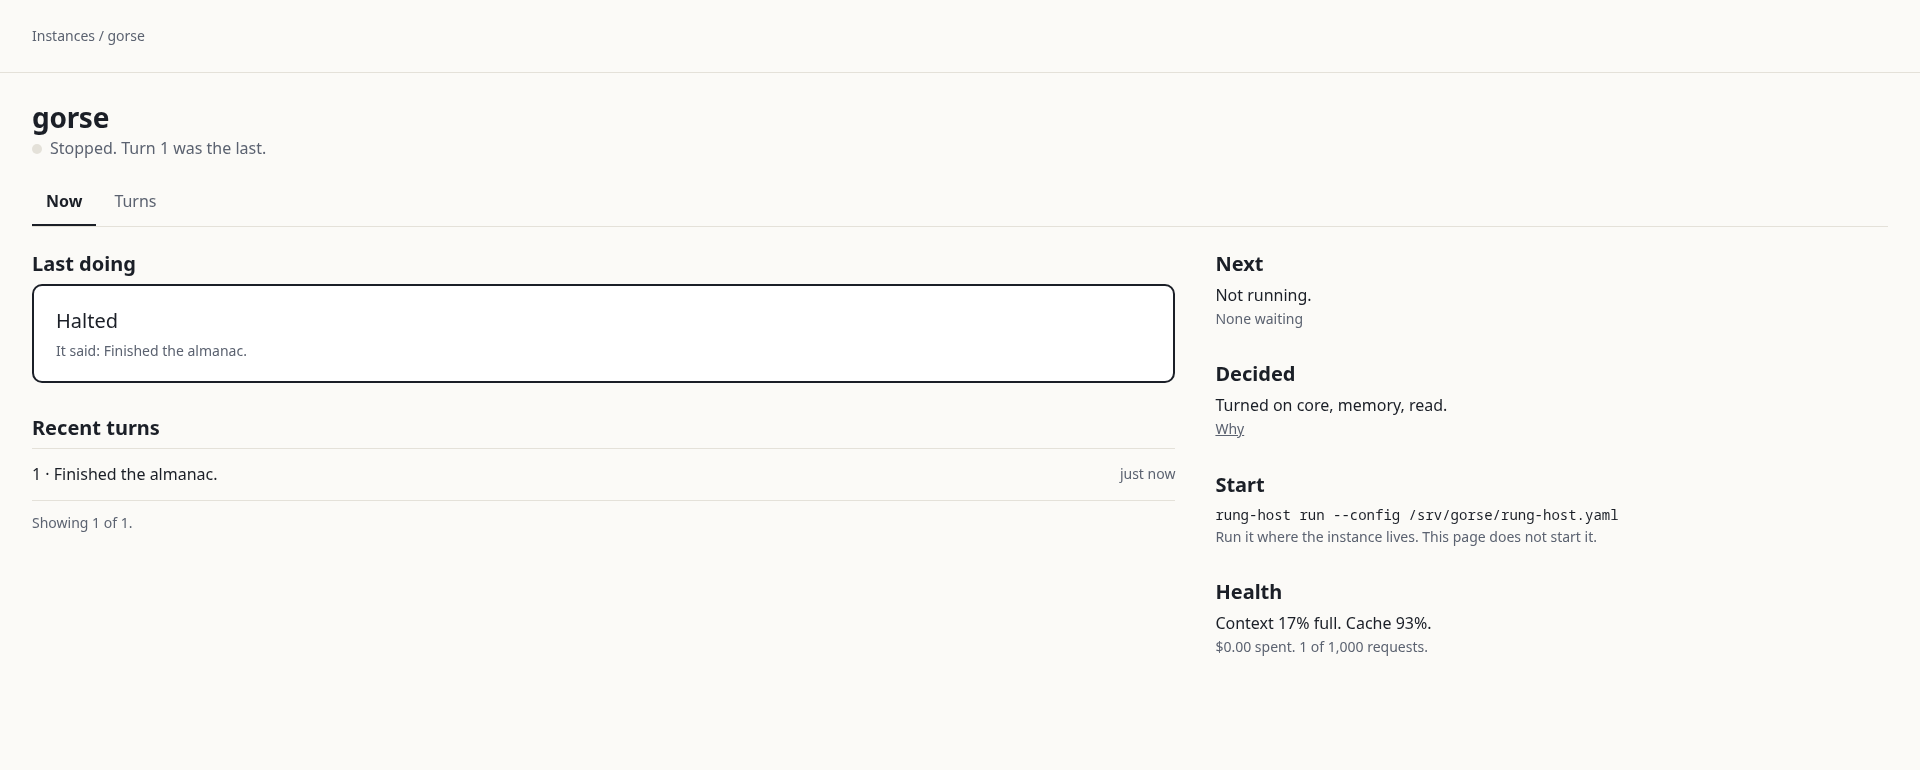
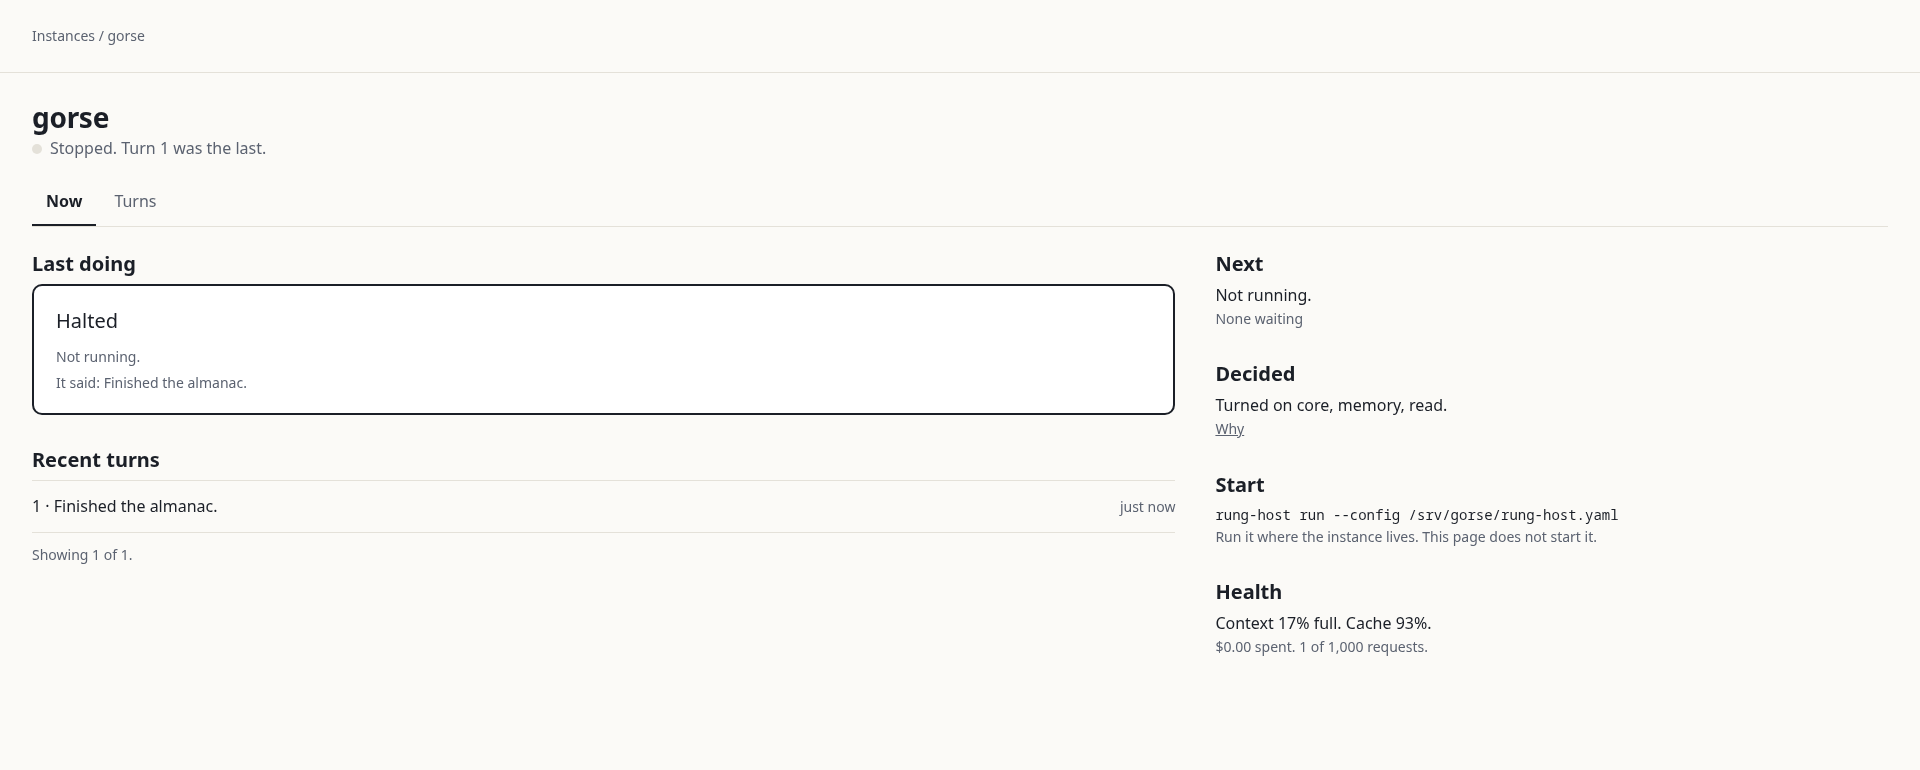
fix(ui): one status mapping for both pages
The Now page had no branch for an ended stream (the Turns page said Not running), so
with a stale record it could say the instance was working while Turns said it was not.
Every state the stream can be in now maps, in one exhaustive table, to its words for
each page and to whether it means the instance is running; a status added to the list
does not compile until it has an entry. When the stream's last frame says the host
stopped, that is the newer word: the heading, the state word and the Now page's line
follow it even if the summary read before it still says Working. Tests (red against the
code before), a proof step with a stale summary, and three more faults in the sweep.

diff --git a/ui/test/status.test.ts b/ui/test/status.test.ts
@@ -1,0 +1,68 @@
+// One mapping from what the stream (and the summary) can say to the words and the meaning every page uses, so two pages cannot disagree.
+import { test } from "node:test";
+import assert from "node:assert/strict";
+import { STATUSES } from "../src/live/client.ts";
+import { describeStatus, stoppedByStream, TURNS_LINE, withStreamEnd } from "../src/live/status.ts";
+import { summarize } from "../src/record/folds.ts";
+import { synthetic } from "../src/synthetic.ts";
+
+test("every status the stream can produce has words and a meaning: a new one is a compile error, and here a test failure", () => {
+  assert.deepEqual([...STATUSES].sort(), ["catching up", "connecting", "ended", "following", "reconnecting", "unavailable"]);
+  for (const s of STATUSES) {
+    const d = describeStatus(s);
+    assert.ok(d.turnsLine.length > 3, `${s}: words for the Turns page`);
+    assert.ok(d.nowWords.length > 3, `${s}: words for the Now page`);
+    assert.ok(["yes", "no", "unknown"].includes(d.running), `${s}: whether it is running`);
+  }
+  assert.equal(Object.keys(TURNS_LINE).length, STATUSES.length);
+});
+
+test("an ended stream says Not running on both pages, and means not running, whatever a stale record says", () => {
+  const d = describeStatus("ended");
+  assert.equal(d.turnsLine, "Not running");
+  assert.equal(d.nowWords, "Not running.");
+  assert.equal(d.running, "no");
+  // A stale record: its last turn is still 'running'. The stream's word for the instance wins.
+  assert.equal(describeStatus("ended", { turnRunning: true }).nowWords, "Not running.");
+});
+
+test("while following, the Now page says what the running turn is doing, and between turns says so; the Turns page says Following", () => {
+  assert.equal(describeStatus("following").turnsLine, "Following");
+  assert.equal(describeStatus("following", { turnRunning: true, tool: "ws_write", elapsed: "12 s" }).nowWords, "Running ws_write, 12 s in.");
+  assert.equal(describeStatus("following", { turnRunning: true, elapsed: "3 s" }).nowWords, "Writing, 3 s in.");
+  assert.equal(describeStatus("following", { turnRunning: false }).nowWords, "Between turns.");
+  assert.equal(describeStatus("following").running, "yes");
+});
+
+test("unavailable, reconnecting, catching up: each its own plain words", () => {
+  assert.equal(describeStatus("unavailable").turnsLine, "Recorded, not followed");
+  assert.equal(describeStatus("unavailable").nowWords, "Not followed.");
+  assert.equal(describeStatus("reconnecting").turnsLine, "Reconnecting");
+  assert.equal(describeStatus("connecting").nowWords, "Reconnecting.");
+  assert.equal(describeStatus("catching up").turnsLine, "Catching up");
+  assert.equal(describeStatus("catching up").running, "yes");
+});
+
+const stale = () => summarize(synthetic(Date.now()).find((i) => i.id === "atlas")!.lines, { lockHeld: true, now: Date.now() }); // says Working
+
+test("a stale summary that still says Working is replaced by the stream's word once the host stopped, on every page that reads it", () => {
+  assert.equal(stale().state, "Working");
+  const stopped = withStreamEnd(stale(), { reason: "stopped", last_seq: 9, problem: null });
+  assert.equal(stopped.state, "Stopped");
+  assert.equal(stopped.doing, "Not running.");
+  assert.equal(stopped.needsYou, false);
+  const down = withStreamEnd(stale(), { reason: "down", last_seq: 9, problem: null });
+  assert.equal(down.state, "Down");
+  assert.equal(down.needsYou, true, "a host that died needs the owner");
+  assert.equal(stoppedByStream({ reason: "stopped", last_seq: 1, problem: null }), true);
+  assert.equal(stoppedByStream({ reason: "damaged", last_seq: 1, problem: "x" }), false, "a damaged record is not a stopped host");
+  assert.equal(stoppedByStream(null), false);
+});
+
+test("a summary that already says the host is not running is left as it is, and no end leaves a running one alone", () => {
+  const s = { ...stale(), state: "Stopped" as const, doing: "Reached its run limit." };
+  assert.equal(withStreamEnd(s, { reason: "down", last_seq: 1, problem: null }), s);
+  const w = stale();
+  assert.equal(withStreamEnd(w, null), w);
+  assert.equal(withStreamEnd(w, { reason: "error", last_seq: 1, problem: "read failed" }), w);
+});

diff --git a/ui/src/live/status.ts b/ui/src/live/status.ts
@@ -1,0 +1,50 @@
+/** The one mapping from what the stream can be doing to the words every page uses for it and what it means. `Record<Status, …>` makes it
+ *  exhaustive: a status added to `STATUSES` does not compile until it has an entry here, so two pages cannot read the same status two ways. */
+import { STATUSES, type End, type Status } from "./client.ts";
+import type { Summary } from "../record/folds.ts";
+import { isLockHeld } from "../record/words.ts";
+
+/** Does this status mean the instance is running? `unknown` when the stream cannot say (it is not connected, or there is no stream). */
+export type Running = "yes" | "no" | "unknown";
+
+/** What the page is told about the running turn, for the words of the Now page. */
+export interface TurnContext {
+  /** The record's last turn has started and not ended. */
+  turnRunning?: boolean;
+  /** The tool in flight, if the stream said one. */
+  tool?: string | null;
+  /** How long the turn has run, in words. */
+  elapsed?: string;
+}
+
+const ROW: Record<Status, { turnsLine: string; now: (c: TurnContext) => string; running: Running }> = {
+  connecting: { turnsLine: "Reconnecting", now: () => "Reconnecting.", running: "unknown" },
+  reconnecting: { turnsLine: "Reconnecting", now: () => "Reconnecting.", running: "unknown" },
+  "catching up": { turnsLine: "Catching up", now: () => "Catching up.", running: "yes" },
+  following: {
+    turnsLine: "Following",
+    now: (c) => (c.turnRunning ? `${c.tool ? `Running ${c.tool}` : "Writing"}, ${c.elapsed ?? "0 s"} in.` : "Between turns."),
+    running: "yes",
+  },
+  // The host stopped, whatever the record's last turn says: a stale record may still hold a turn that never ended.
+  ended: { turnsLine: "Not running", now: () => "Not running.", running: "no" },
+  unavailable: { turnsLine: "Recorded, not followed", now: () => "Not followed.", running: "unknown" },
+};
+
+export const TURNS_LINE = Object.fromEntries(STATUSES.map((s) => [s, ROW[s].turnsLine])) as Record<Status, string>;
+
+export function describeStatus(status: Status, ctx: TurnContext = {}): { turnsLine: string; nowWords: string; running: Running } {
+  const r = ROW[status];
+  return { turnsLine: r.turnsLine, nowWords: r.now(ctx), running: r.running };
+}
+
+/** The stream's last frame says the host stopped (or died): the instance is not running, whatever a summary read before it said. */
+export const stoppedByStream = (ended: End | null): boolean => ended !== null && (ended.reason === "stopped" || ended.reason === "down");
+
+/** The summary as the pages show it once the stream has ended: a summary that still holds a lock-held word is stale, and the stream's
+ *  word replaces it. A summary that already says Stopped, Down or Unreadable is left as it is. */
+export function withStreamEnd(summary: Summary, ended: End | null): Summary {
+  if (!stoppedByStream(ended) || !isLockHeld(summary.state)) return summary;
+  const stopped = ended!.reason === "stopped";
+  return { ...summary, state: stopped ? "Stopped" : "Down", doing: "Not running.", needsYou: !stopped };
+}

diff --git a/ui/src/live/store.ts b/ui/src/live/store.ts
@@ -3,7 +3,7 @@
  *  with useSyncExternalStore and a test reads it directly. Changes are batched so a burst of lines is one render. */
 import type { Line } from "../record/types.ts";
 import { parseRecordLines, redact, redactStreaming } from "./wire.ts";
-import { EventsClient, type Delta, type Open, type Status } from "./client.ts";
+import { EventsClient, type Delta, type End, type Open, type Status } from "./client.ts";
 
 /** What `GET /v1/summary` answers (ui/contract/README.md). */
 export interface HostSummary {
@@ -27,6 +27,8 @@ export interface LiveState {
   status: Status;
   lines: Line[];
   host: HostSummary | null;
+  /** The stream ended because the host stopped (the last frame it sent), until a stream opens on a host that is running again. */
+  ended: End | null;
 }
 
 /** What the running turn is doing now. Gone when the turn's end is on the record, and on a cut (pieces were lost). */
@@ -37,7 +39,7 @@ export interface LiveDelta {
 }
 
 export class LiveStore {
-  private state: LiveState = { loaded: false, error: null, status: "connecting", lines: [], host: null };
+  private state: LiveState = { loaded: false, error: null, status: "connecting", lines: [], host: null, ended: null };
   /** The streamed text exactly as it came. It is redacted when read, over the whole text so far: a key split across pieces
    *  is whole in here, and redacting the running text would leave the tail of a key the next piece completes. */
   private raw: LiveDelta | null = null;
@@ -129,9 +131,9 @@ export class LiveStore {
       onRecord: (l) => this.onRecord(l),
       onDelta: (d) => this.onDelta(d),
       onOpen: (o) => void this.onOpen(o),
-      onEnd: () => void this.refreshSummary(),
+      onEnd: (e) => { this.set({ ended: e }); void this.refreshSummary(); },
       onStatus: (s) => {
-        if (s === "reconnecting" || s === "connecting") { this.caught = false; this.setDelta(null); } // pieces may have been lost in the cut: show none rather than a torn text
+        if (s === "reconnecting" || s === "connecting") { this.caught = false; this.setDelta(null); this.set({ ended: null }); } // pieces may have been lost in the cut: show none rather than a torn text
         // "following" is the store's to say: it is true once the replay has been applied (checkCaught).
         this.set({ status: s });
       },
@@ -159,6 +161,7 @@ export class LiveStore {
     this.joinSeq = null;
     this.newBlock = false;
     this.setDelta(null);
+    if (o.live) this.set({ ended: null });
     if (!o.live) return; // a stopped host: its stream ends right after the replay
     // Without the summary the page cannot say where the replay ends, so it would show no partial frame at all: ask again, with a growing
     // wait, for as long as this stream is the open one. The record is followed meanwhile.

diff --git a/ui/src/pages/NowPage.tsx b/ui/src/pages/NowPage.tsx
@@ -7,12 +7,13 @@ import { InstanceHead, Page, Tabs, Top } from "./Shell.tsx";
 import { useNow, when } from "./format.ts";
 import type { LiveInfo } from "../data/hooks.ts";
 import { visibleDelta } from "../live/overlay.ts";
+import { describeStatus } from "../live/status.ts";
 import { duration } from "../record/words.ts";
 
 export function NowPage({ id }: { id: string }) {
   const { entry, folds, indexLoaded, error, live: li, startCommand } = useInstance(id);
   const s = folds?.summary;
-  const live = !!entry?.lockHeld;
+  const live = folds ? folds.lockHeld : !!entry?.lockHeld;
   const recent = folds ? folds.turns.slice(-3).reverse() : [];
   const lastTurn = folds && folds.turns.length ? folds.turns[folds.turns.length - 1] : null;
   const missing = indexLoaded && !entry;
@@ -36,7 +37,7 @@ export function NowPage({ id }: { id: string }) {
                         Committed {num(Math.max(0, (s.lastTurn ?? 0) - s.project.sinceTurn))} turns ago.{s.project.doneWhen ? ` Done when ${s.project.doneWhen}.` : ""}
                       </p>
                     )}
-                    {li && live && <LiveLine li={li} turn={lastTurn} now={now} />}
+                    {li && (live || li.status === "ended") && <LiveLine li={li} turn={lastTurn} now={now} />}
                     {!s.project && lastTurn && !live && (
                       <p className="meta" style={{ margin: "6px 0 0" }} data-content>It said: {turnLine(lastTurn)}</p>
                     )}
@@ -89,16 +90,11 @@ export function NowPage({ id }: { id: string }) {
 function LiveLine({ li, turn, now }: { li: LiveInfo; turn: { n: number; status: string; startedAt: number } | null; now: number }) {
   const running = turn?.status === "running";
   const delta = visibleDelta(li.delta, turn);
-  let words: string;
-  if (li.status === "unavailable") words = "Not followed.";
-  else if (li.status === "reconnecting" || li.status === "connecting") words = "Reconnecting.";
-  else if (li.status === "catching up") words = "Catching up.";
-  else if (running) words = `${delta?.tool ? `Running ${delta.tool}` : "Writing"}, ${duration(Math.max(0, now - turn!.startedAt))} in.`;
-  else words = "Between turns.";
+  const d = describeStatus(li.status, { turnRunning: running, tool: delta?.tool, elapsed: running ? duration(Math.max(0, now - turn!.startedAt)) : undefined });
   return (
     <>
       {delta?.text ? <p className="content" style={{ margin: "12px 0 0" }} data-content>{delta.text}</p> : null}
-      <p className="meta" style={{ margin: "12px 0 0" }} data-content><span className="mark live" />Live: {words}</p>
+      <p className="meta" style={{ margin: "12px 0 0" }} data-content>{d.running === "no" ? d.nowWords : <><span className="mark live" />Live: {d.nowWords}</>}</p>
     </>
   );
 }

diff --git a/ui/src/data/hooks.ts b/ui/src/data/hooks.ts
@@ -5,6 +5,7 @@ import { foldDecisions, foldPack, foldSpend, foldTurns, summarize } from "../rec
 import { LiveStore, type LiveDelta, type LiveState } from "../live/store.ts";
 import type { Status } from "../live/client.ts";
 import { isLockHeld } from "../record/words.ts";
+import { stoppedByStream, withStreamEnd } from "../live/status.ts";
 import { StoreRegistry } from "../live/registry.ts";
 
 /** Is the app beside a gateway (live) or beside recorded files (static)? Asked once. */
@@ -25,7 +26,7 @@ export function useIndex() {
 const registry = new StoreRegistry((id) => new LiveStore(`api/i/${encodeURIComponent(id)}`));
 const acquire = (id: string) => registry.acquire(id);
 const release = (id: string) => registry.release(id);
-const idle: LiveState = { loaded: false, error: null, status: "connecting", lines: [], host: null };
+const idle: LiveState = { loaded: false, error: null, status: "connecting", lines: [], host: null, ended: null };
 const never = () => () => {};
 
 export interface LiveInfo { status: Status; delta: LiveDelta | null }
@@ -54,12 +55,15 @@ export function useInstance(id: string) {
   const folds = useMemo(() => {
     if (!lines || !entry) return null;
     const now = live ? Date.now() : index.data!.generatedAt;
-    const lockHeld = live ? (ls.host ? isLockHeld(ls.host.state) : entry.lockHeld) : entry.lockHeld;
+    // The stream's last frame says the host stopped: that is the newer word, and a summary read before it may still say Working.
+    const ended = live ? ls.ended : null;
+    const lockHeld = stoppedByStream(ended) ? false : live ? (ls.host ? isLockHeld(ls.host.state) : entry.lockHeld) : entry.lockHeld;
     const folded = summarize(lines, { lockHeld, now });
     // The host knows whether it holds its lock; its word for the state is the one shown.
-    const summary = live && ls.host ? { ...folded, state: ls.host.state as typeof folded.state, doing: ls.host.doing, needsYou: ls.host.needs_you } : folded;
+    const fromHost = live && ls.host ? { ...folded, state: ls.host.state as typeof folded.state, doing: ls.host.doing, needsYou: ls.host.needs_you } : folded;
+    const summary = withStreamEnd(fromHost, ended);
     return { lines, turns: foldTurns(lines, { live: lockHeld }), decisions: foldDecisions(lines), pack: foldPack(lines), spend: foldSpend(lines), summary, now, lockHeld };
-  }, [lines, entry, index.data, live, ls.host]);
+  }, [lines, entry, index.data, live, ls.host, ls.ended]);
 
   const liveInfo: LiveInfo | null = live ? { status: ls.status, delta } : null;
   return { entry, startCommand: (ls.host?.start_command ?? entry?.startCommand) || null, folds, indexLoaded: index.isSuccess, error: index.error ?? rec.error ?? (live && ls.error ? new Error(ls.error) : null), live: liveInfo };

diff --git a/ui/census/live-proof.ts b/ui/census/live-proof.ts
@@ -114,6 +114,31 @@ try {
   }
 
 
+
+  // 4 ---------------------------------------------------------------------------------------------------------------
+  // The host stops while two pages watch it, and the summary they would refresh from is stale (it still says Working): both pages must
+  // say Not running, from one shared mapping, and neither may say the instance is working.
+  {
+    const ctx = await browser.newContext({ viewport: { width: 390, height: 844 } });
+    const staleBody = JSON.stringify(await (await fetch(`${m.url}/api/i/alpha/v1/summary`)).json());
+    let frozen = false;
+    await ctx.route("**/v1/summary", (route) => (frozen ? route.fulfill({ status: 200, contentType: "application/json", body: staleBody }) : route.continue()));
+    const now = await ctx.newPage();
+    const turns = await ctx.newPage();
+    await ready(now, "#/i/alpha");
+    await ready(turns, "#/i/alpha/turns");
+    await turns.waitForFunction(() => document.body.innerText.includes("Following"));
+    frozen = true;
+    await host.halt();
+    await turns.waitForFunction(() => document.body.innerText.includes("Not running"), null, { timeout: 8000 });
+    await now.waitForFunction(() => document.body.innerText.includes("Not running"), null, { timeout: 8000 }).catch(() => {});
+    const nowText = await now.evaluate(() => document.body.innerText);
+    const turnsText = await turns.evaluate(() => document.body.innerText);
+    check(/Not running/.test(turnsText), "after the host stopped, the Turns page says Not running");
+    check(/Not running/.test(nowText), "after the host stopped, the Now page says Not running (with a stale summary)");
+    check(!/Live: (Writing|Running|Between)/.test(nowText) && !/Working\./.test(nowText + turnsText), "neither page still says the instance is working");
+    await ctx.close();
+  }
 } finally {
   await browser?.close();
   await m.stop();

diff --git a/ui/src/pages/TurnsPage.tsx b/ui/src/pages/TurnsPage.tsx
@@ -5,6 +5,7 @@ import type { ToolCall, Turn } from "../record/folds.ts";
 import { InstanceHead, Page, Tabs, Top } from "./Shell.tsx";
 import { useNow, when } from "./format.ts";
 import { overlayRunning } from "../live/overlay.ts";
+import { describeStatus } from "../live/status.ts";
 
 const PAGE = 50;
 type Filter = "all" | "tools" | "failed" | "model";
@@ -105,7 +106,7 @@ export function TurnsPage({ id, turn }: { id: string; turn: number | null }) {
   const count = Math.max(shown, need);
   const s = folds?.summary;
   const lastTurn = folds && folds.turns.length ? folds.turns[folds.turns.length - 1] : null;
-  const live = !!entry?.lockHeld;
+  const live = folds ? folds.lockHeld : !!entry?.lockHeld;
   const filtered = q !== "" || f !== "all";
 
   return (
@@ -122,7 +123,7 @@ export function TurnsPage({ id, turn }: { id: string; turn: number | null }) {
         </div>
         {li && (
           <p className="meta" style={{ margin: "0 0 20px" }} data-content>
-            <span className="mark live" />{li.status === "following" ? "Following" : li.status === "catching up" ? "Catching up" : li.status === "unavailable" ? "Recorded, not followed" : li.status === "ended" ? "Not running" : "Reconnecting"}
+            <span className="mark live" />{describeStatus(li.status).turnsLine}
           </p>
         )}
         <section>

diff --git a/ui/src/live/client.ts b/ui/src/live/client.ts
@@ -5,7 +5,9 @@
 import type { Line } from "../record/types.ts";
 import { SseParser } from "./sse.ts";
 
-export type Status = "connecting" | "catching up" | "following" | "reconnecting" | "unavailable" | "ended";
+/** Every state the stream can be in. `describeStatus` has an entry for each: add one here and it does not compile until it has words. */
+export const STATUSES = ["connecting", "catching up", "following", "reconnecting", "unavailable", "ended"] as const;
+export type Status = (typeof STATUSES)[number];
 
 /** A partial frame (docs/rung-host-api.md, H5): short-lived, never numbered, never replayed. `turn` and `call` are 0 on `behind`. */
 export type Delta =

diff --git a/ui/README.md b/ui/README.md
@@ -81,7 +81,8 @@ skipped; an external gateway (`RUNG_CONTRACT_URL`) has none, so those skip there
 - `h5-first-run-mock.txt`, `h5-first-run-ui.txt`: the contract tests written for H5's frames against the mock as it was, and the page's live code against the mock
   once it spoke H5: what failed before the page followed the real stream.
 - `h5-summary-retry-first-run.txt`: the summary-retry test against the store before the retry.
-- `live-mutations.txt`: thirty-five faults put into the live code one at a time; every one is caught by a test.
+- `status-first-run.txt`: the shared-status tests, and a proof step where the host stops under two open pages with a stale summary, against the code before: the Now page did not say Not running.
+- `live-mutations.txt`: thirty-eight faults put into the live code one at a time; every one is caught by a test.
 - `live-proof.txt`: the live proof against the mock, as run.
 - `real-gateway-first-run.txt`: the tests for the real gateway's rows and a missing event stream, against the UI source as it was on master.
 - `real-proof.txt`: the proof against the real gateway binary, as run; `contract-real.txt`: the contract tests against it, as run.
